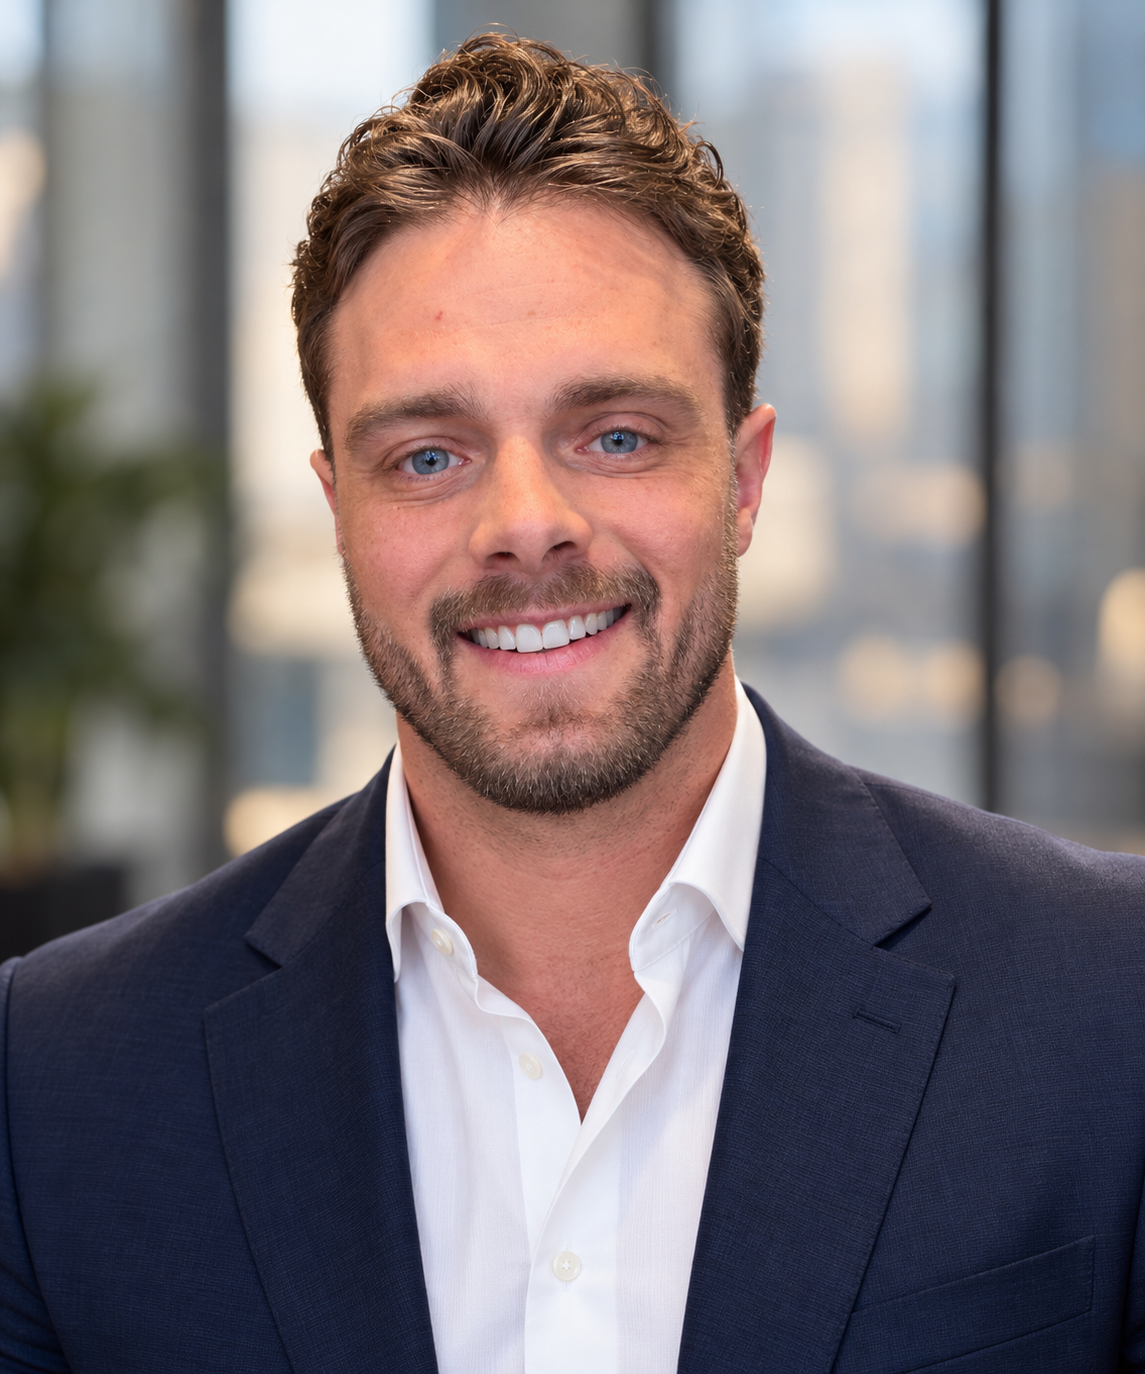
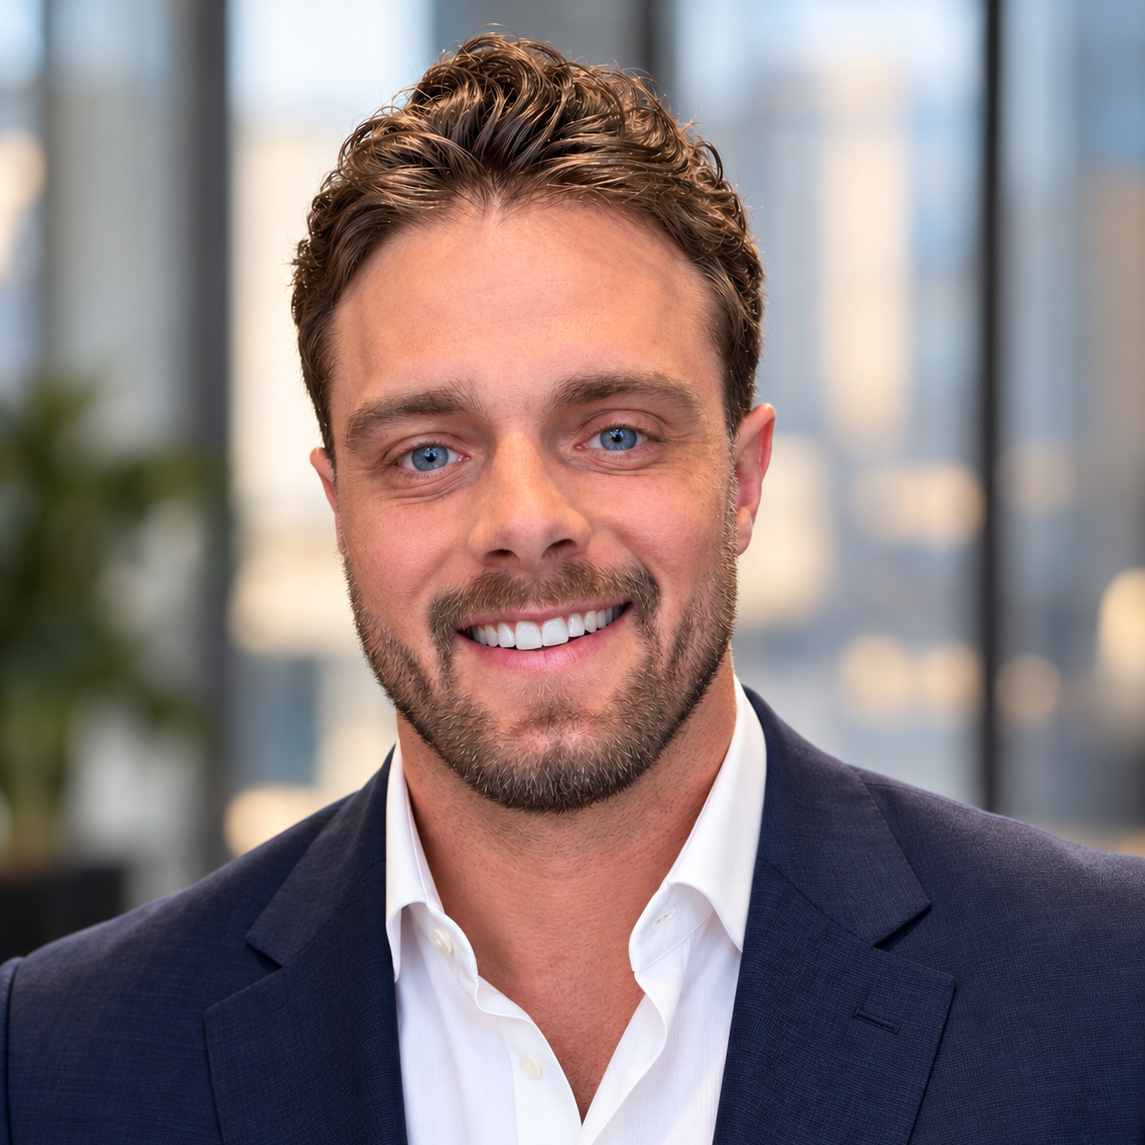
fix(profile): restore Joey's original headshot and reframe Simrin's photo to match team scaling

diff --git a/src/components/profile/profile-client.tsx b/src/components/profile/profile-client.tsx
@@ -150,9 +150,6 @@ function ProfileContent() {
                       alt={item.title}
                       width={160}
                       height={160}
-                      style={{
-                        objectPosition: item.slug === "simrin-kapoor" ? "center 18%" : undefined,
-                      }}
                       className="w-full h-full rounded-full object-cover bg-slate-900 transition-transform duration-300 group-hover:scale-105"
                     />
                   </div>
@@ -215,9 +212,6 @@ function ProfileContent() {
                     alt={selectedMember.title}
                     width={180}
                     height={180}
-                    style={{
-                      objectPosition: selectedMember.slug === "simrin-kapoor" ? "center 18%" : undefined,
-                    }}
                     className="w-full h-full rounded-full object-cover bg-slate-900"
                   />
                 </div>

diff --git a/src/components/profile/team.tsx b/src/components/profile/team.tsx
@@ -33,9 +33,6 @@ const Team = () => {
                       alt={item.title}
                       width={200}
                       height={200}
-                      style={{
-                        objectPosition: item.slug === "simrin-kapoor" ? "center 18%" : undefined,
-                      }}
                       className="object-cover bg-royalblue rounded-full aspect-square"
                       data-aos={getAOSAnimation({ index: item.id })}
                     />
